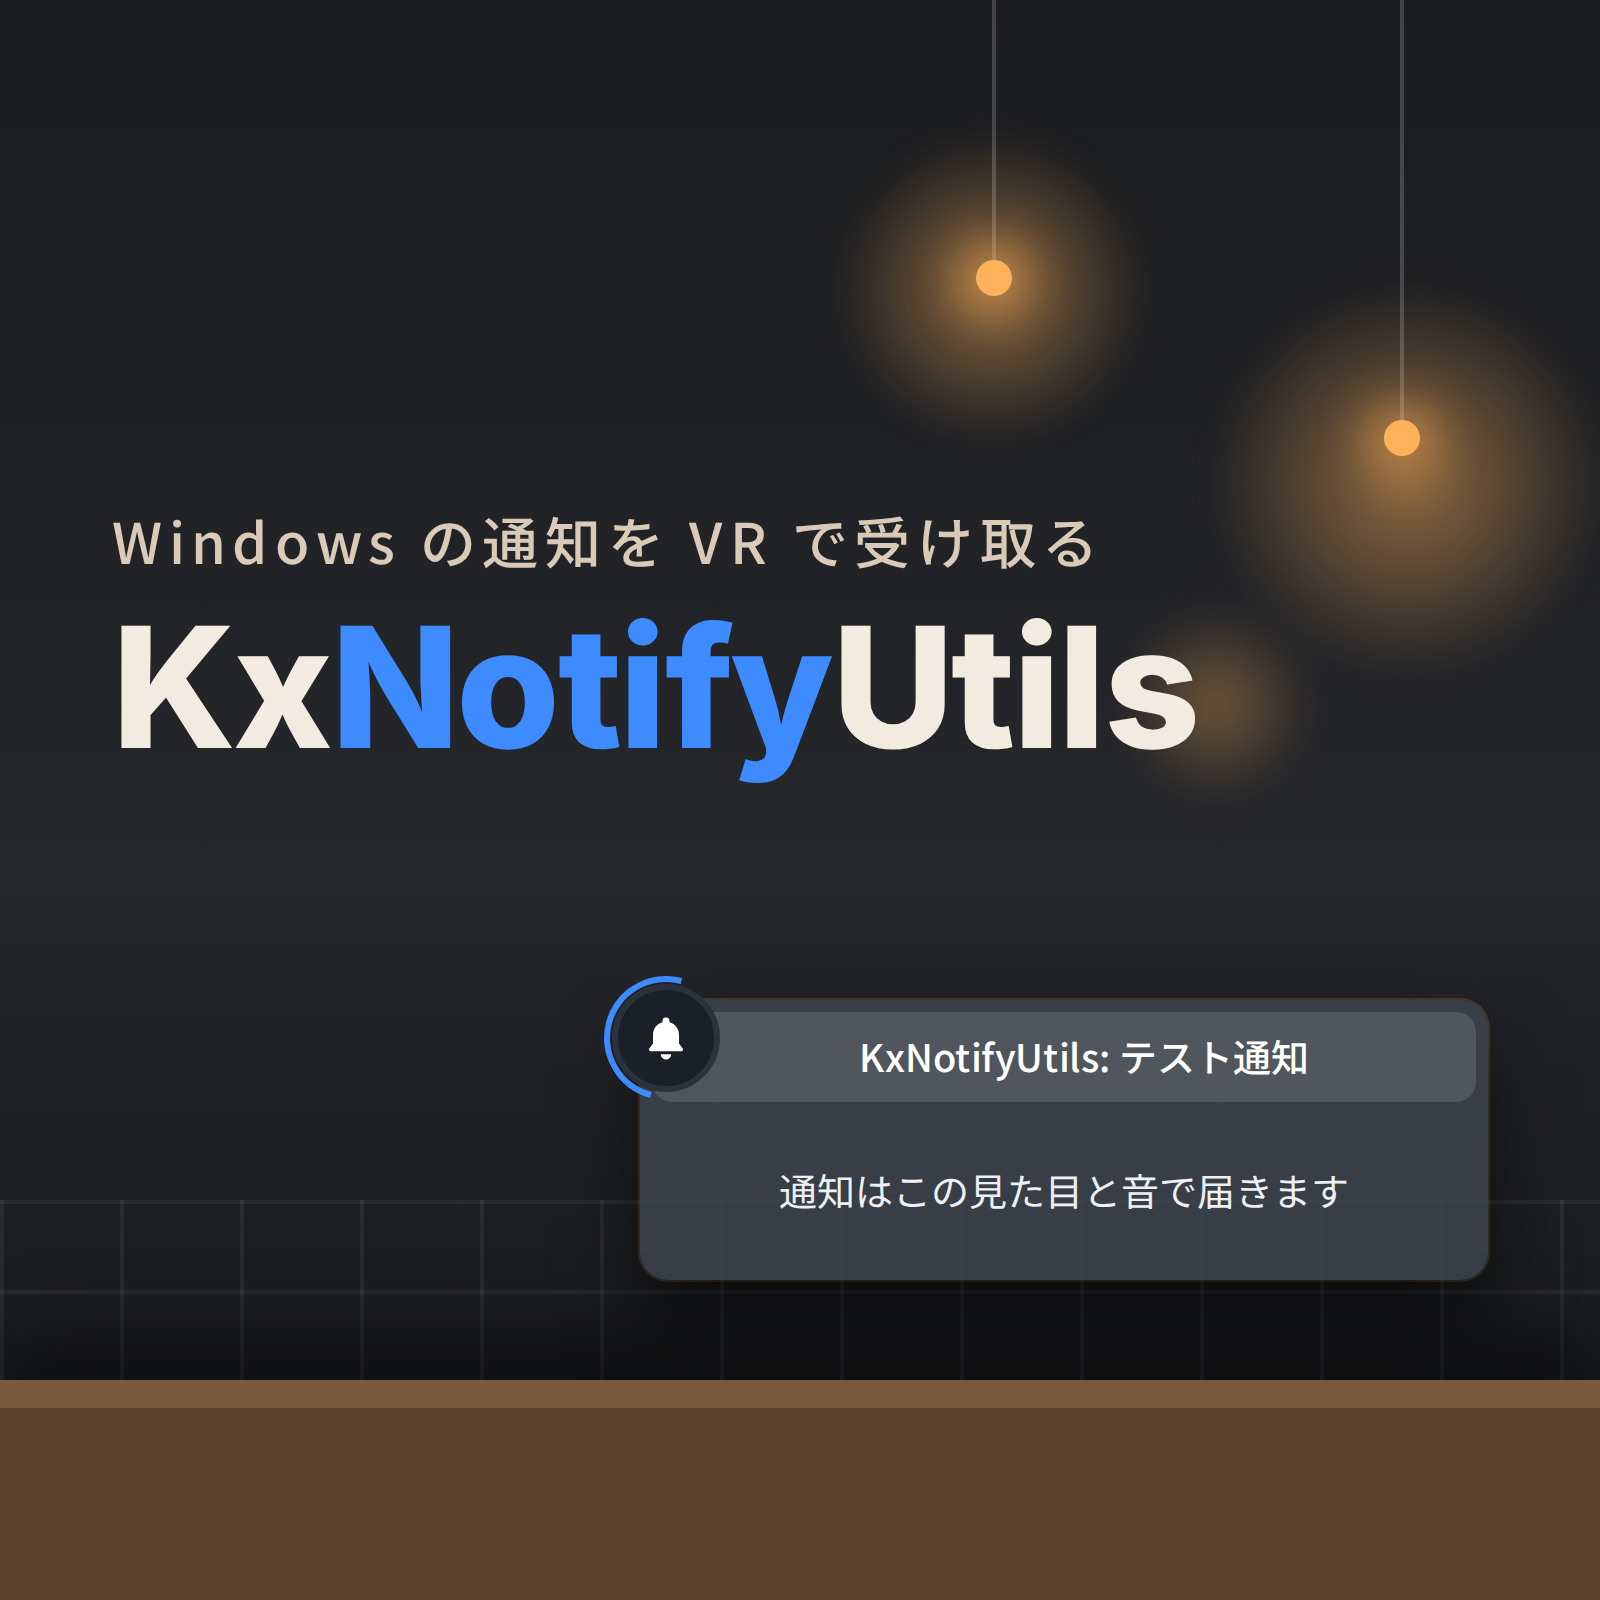
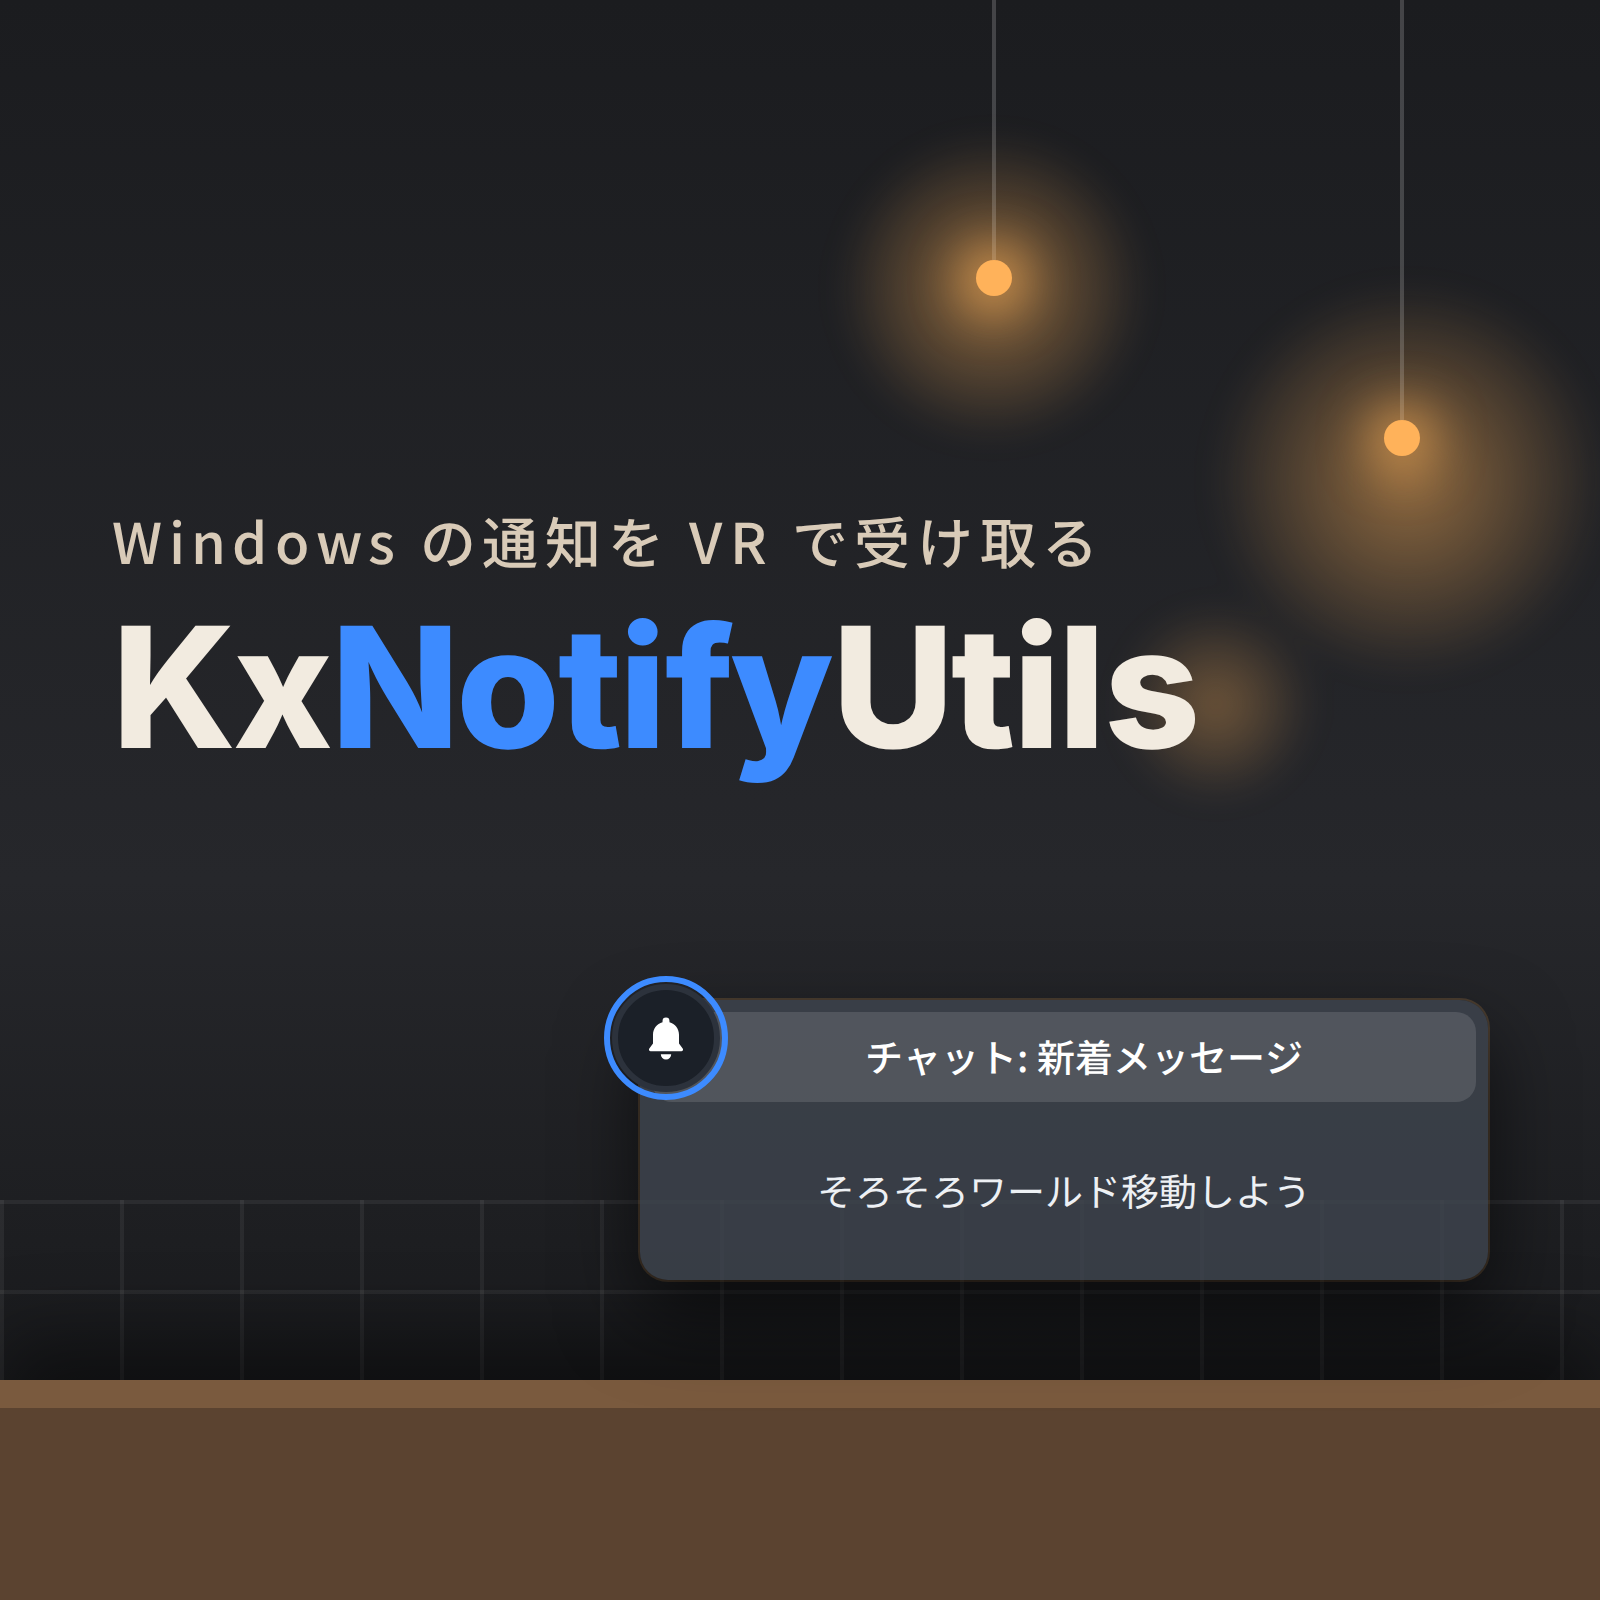
docs(booth): 通知の青い輪を全周にし、文言を架空の例に変える
Claude-Session: https://claude.ai/code/session_01HaaNd64ErN2sput29WDtM3

Changed region(s): [[0.5, 0.7188, 0.8438, 0.7812], [0.5312, 0.625, 0.8125, 0.6875], [0.4062, 0.625, 0.4688, 0.6875]]

diff --git a/booth/thumbnail.html b/booth/thumbnail.html
@@ -51,8 +51,7 @@
   }
   .toast .ic::before {
     content: ""; position: absolute; inset: -7px; border-radius: 50%;
-    border: 3px solid var(--eye); border-right-color: transparent; border-bottom-color: transparent;
-    transform: rotate(-30deg);
+    border: 3px solid var(--eye);
   }
   .toast .ic svg { width: 26px; height: 26px; fill: #fff; }
   .toast .t {
@@ -166,7 +165,7 @@
     <div class="lead">Windows の通知を VR で受け取る</div>
     <div class="name latin">KxNotifyUtils</div>
   </div>
-  <div class="toast"><div class="ic"><svg viewBox="0 0 24 24"><path d="M12 2.5a1.6 1.6 0 0 1 1.6 1.6v.6c2.6.7 4.4 3 4.4 5.8v4l1.7 2.3a.8.8 0 0 1-.6 1.3H4.9a.8.8 0 0 1-.6-1.3L6 14.5v-4c0-2.8 1.8-5.1 4.4-5.8v-.6A1.6 1.6 0 0 1 12 2.5zM9.6 19.5h4.8a2.4 2.4 0 0 1-4.8 0z"/></svg></div><div class="t">KxNotifyUtils: テスト通知</div><div class="b">通知はこの見た目と音で届きます</div></div>
+  <div class="toast"><div class="ic"><svg viewBox="0 0 24 24"><path d="M12 2.5a1.6 1.6 0 0 1 1.6 1.6v.6c2.6.7 4.4 3 4.4 5.8v4l1.7 2.3a.8.8 0 0 1-.6 1.3H4.9a.8.8 0 0 1-.6-1.3L6 14.5v-4c0-2.8 1.8-5.1 4.4-5.8v-.6A1.6 1.6 0 0 1 12 2.5zM9.6 19.5h4.8a2.4 2.4 0 0 1-4.8 0z"/></svg></div><div class="t">チャット: 新着メッセージ</div><div class="b">そろそろワールド移動しよう</div></div>
 </section>
 
 <!-- B: 黒と青。斜めの青い帯に商品名 -->
@@ -176,7 +175,7 @@
     <div class="lead">HMD を外さずに通知を確認</div>
     <div class="name latin">KxNotifyUtils</div>
   </div>
-  <div class="toast"><div class="ic"><svg viewBox="0 0 24 24"><path d="M12 2.5a1.6 1.6 0 0 1 1.6 1.6v.6c2.6.7 4.4 3 4.4 5.8v4l1.7 2.3a.8.8 0 0 1-.6 1.3H4.9a.8.8 0 0 1-.6-1.3L6 14.5v-4c0-2.8 1.8-5.1 4.4-5.8v-.6A1.6 1.6 0 0 1 12 2.5zM9.6 19.5h4.8a2.4 2.4 0 0 1-4.8 0z"/></svg></div><div class="t">KxNotifyUtils: テスト通知</div><div class="b">通知はこの見た目と音で届きます</div></div>
+  <div class="toast"><div class="ic"><svg viewBox="0 0 24 24"><path d="M12 2.5a1.6 1.6 0 0 1 1.6 1.6v.6c2.6.7 4.4 3 4.4 5.8v4l1.7 2.3a.8.8 0 0 1-.6 1.3H4.9a.8.8 0 0 1-.6-1.3L6 14.5v-4c0-2.8 1.8-5.1 4.4-5.8v-.6A1.6 1.6 0 0 1 12 2.5zM9.6 19.5h4.8a2.4 2.4 0 0 1-4.8 0z"/></svg></div><div class="t">チャット: 新着メッセージ</div><div class="b">そろそろワールド移動しよう</div></div>
 </section>
 
 <!-- C: カフェの夜。文字は左、通知は右下 -->
@@ -192,14 +191,14 @@
     <div class="lead">Windows の通知を VR で受け取る</div>
     <div class="name latin">Kx<b>Notify</b>Utils</div>
   </div>
-  <div class="toast"><div class="ic"><svg viewBox="0 0 24 24"><path d="M12 2.5a1.6 1.6 0 0 1 1.6 1.6v.6c2.6.7 4.4 3 4.4 5.8v4l1.7 2.3a.8.8 0 0 1-.6 1.3H4.9a.8.8 0 0 1-.6-1.3L6 14.5v-4c0-2.8 1.8-5.1 4.4-5.8v-.6A1.6 1.6 0 0 1 12 2.5zM9.6 19.5h4.8a2.4 2.4 0 0 1-4.8 0z"/></svg></div><div class="t">KxNotifyUtils: テスト通知</div><div class="b">通知はこの見た目と音で届きます</div></div>
+  <div class="toast"><div class="ic"><svg viewBox="0 0 24 24"><path d="M12 2.5a1.6 1.6 0 0 1 1.6 1.6v.6c2.6.7 4.4 3 4.4 5.8v4l1.7 2.3a.8.8 0 0 1-.6 1.3H4.9a.8.8 0 0 1-.6-1.3L6 14.5v-4c0-2.8 1.8-5.1 4.4-5.8v-.6A1.6 1.6 0 0 1 12 2.5zM9.6 19.5h4.8a2.4 2.4 0 0 1-4.8 0z"/></svg></div><div class="t">チャット: 新着メッセージ</div><div class="b">そろそろワールド移動しよう</div></div>
 </section>
 
 <!-- D: 銀白。通知が上、商品名が下 -->
 <section class="cand" id="d">
   <div class="strands"></div>
   <div class="glow"></div>
-  <div class="toast"><div class="ic"><svg viewBox="0 0 24 24"><path d="M12 2.5a1.6 1.6 0 0 1 1.6 1.6v.6c2.6.7 4.4 3 4.4 5.8v4l1.7 2.3a.8.8 0 0 1-.6 1.3H4.9a.8.8 0 0 1-.6-1.3L6 14.5v-4c0-2.8 1.8-5.1 4.4-5.8v-.6A1.6 1.6 0 0 1 12 2.5zM9.6 19.5h4.8a2.4 2.4 0 0 1-4.8 0z"/></svg></div><div class="t">KxNotifyUtils: テスト通知</div><div class="b">通知はこの見た目と音で届きます</div></div>
+  <div class="toast"><div class="ic"><svg viewBox="0 0 24 24"><path d="M12 2.5a1.6 1.6 0 0 1 1.6 1.6v.6c2.6.7 4.4 3 4.4 5.8v4l1.7 2.3a.8.8 0 0 1-.6 1.3H4.9a.8.8 0 0 1-.6-1.3L6 14.5v-4c0-2.8 1.8-5.1 4.4-5.8v-.6A1.6 1.6 0 0 1 12 2.5zM9.6 19.5h4.8a2.4 2.4 0 0 1-4.8 0z"/></svg></div><div class="t">チャット: 新着メッセージ</div><div class="b">そろそろワールド移動しよう</div></div>
   <div class="head">
     <div class="lead">Windows の通知を VR で受け取る</div>
     <div class="name latin">Kx<b>Notify</b>Utils</div>
